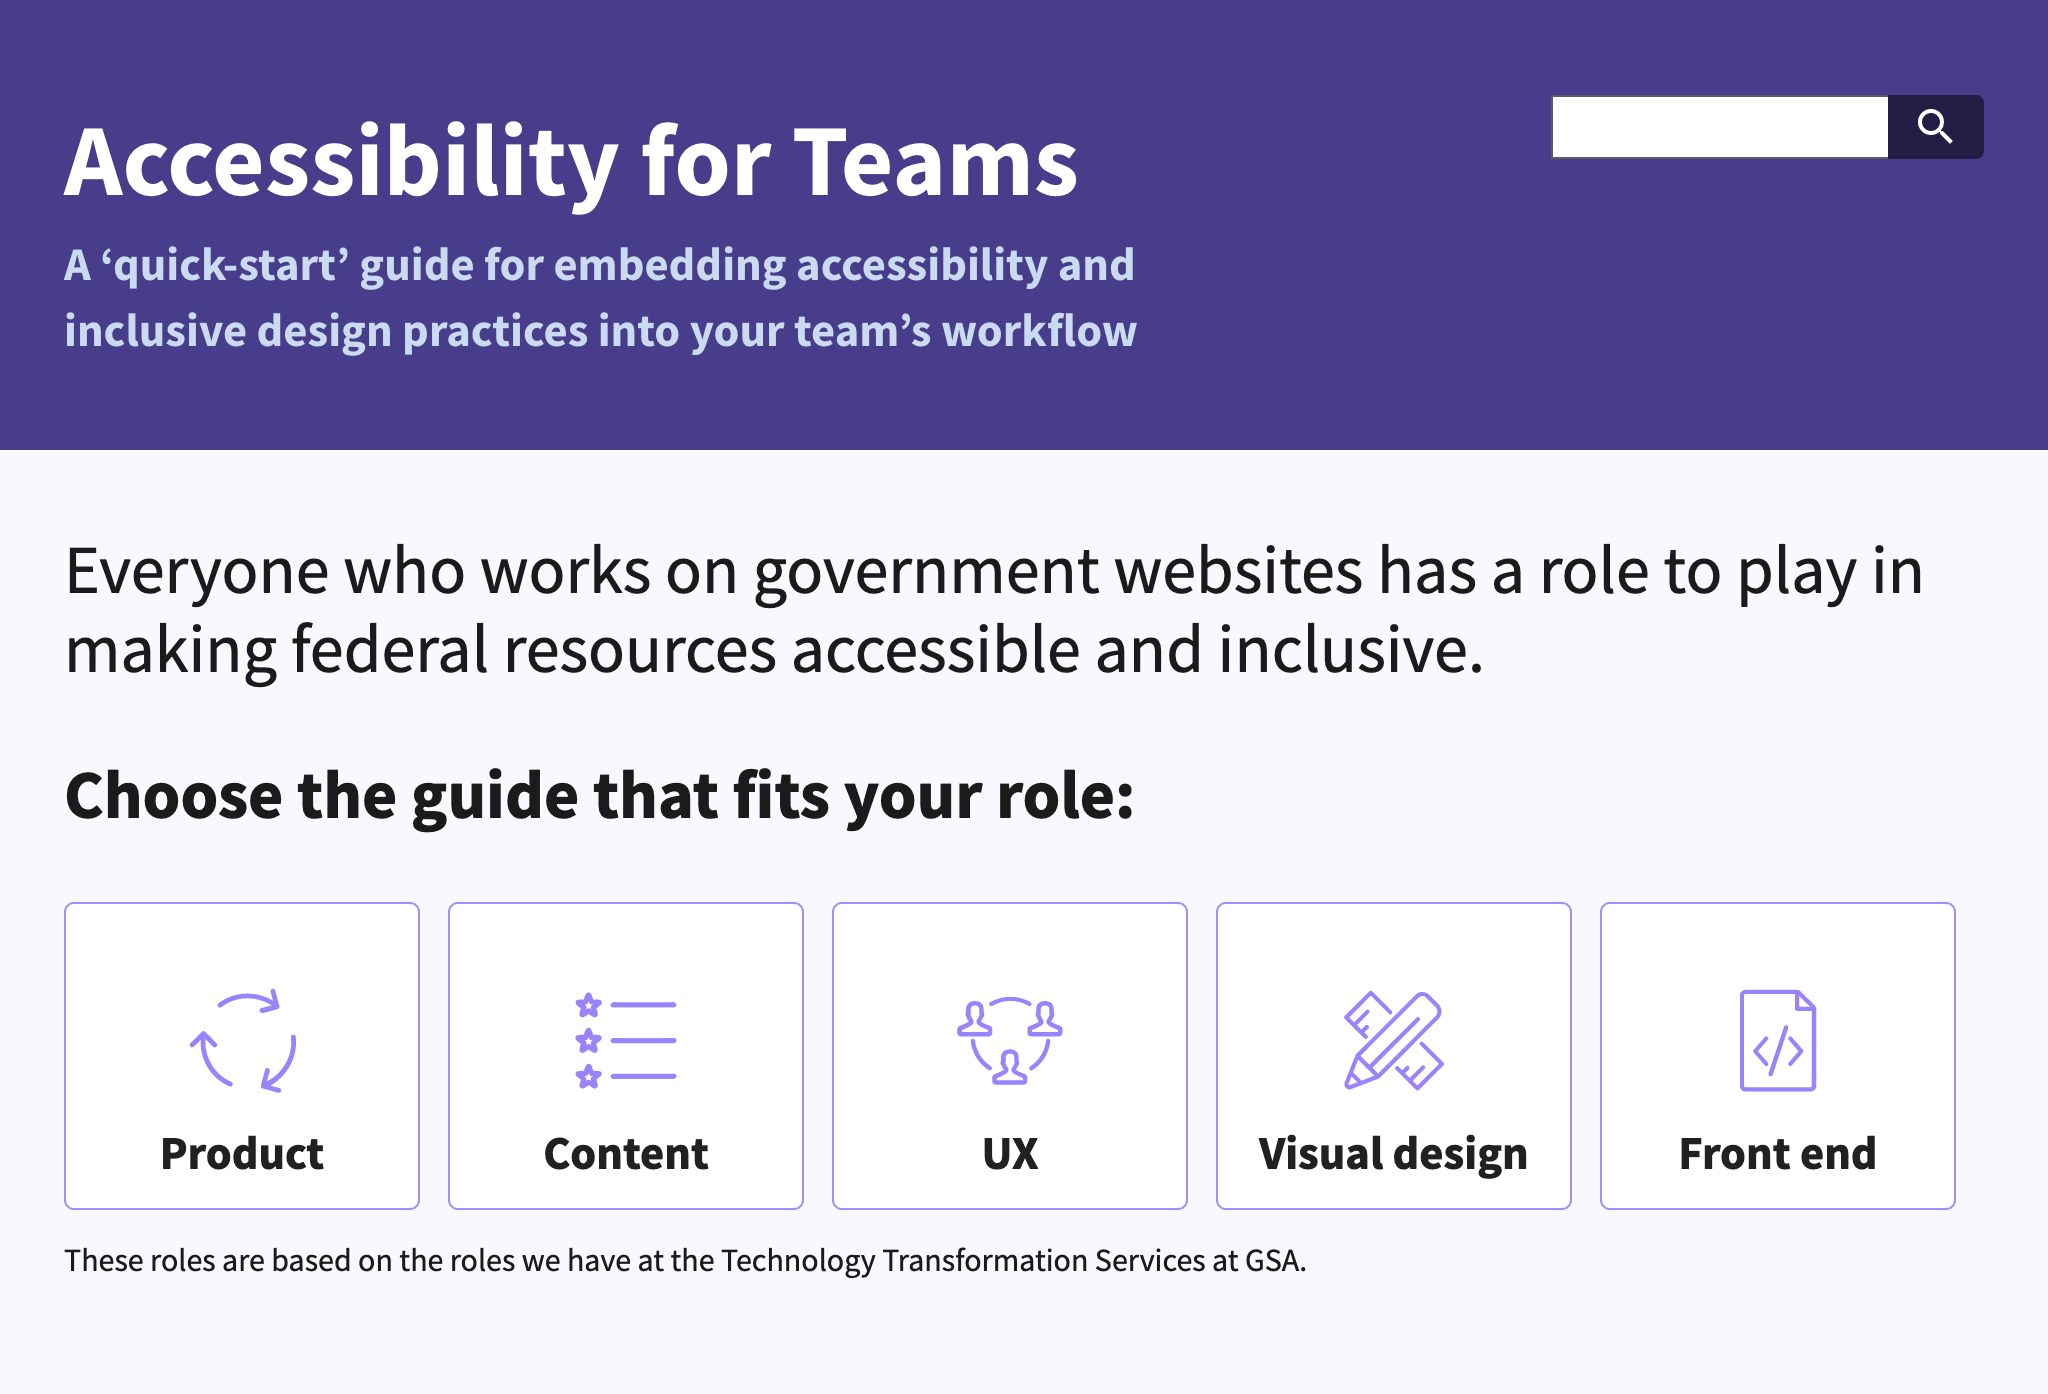
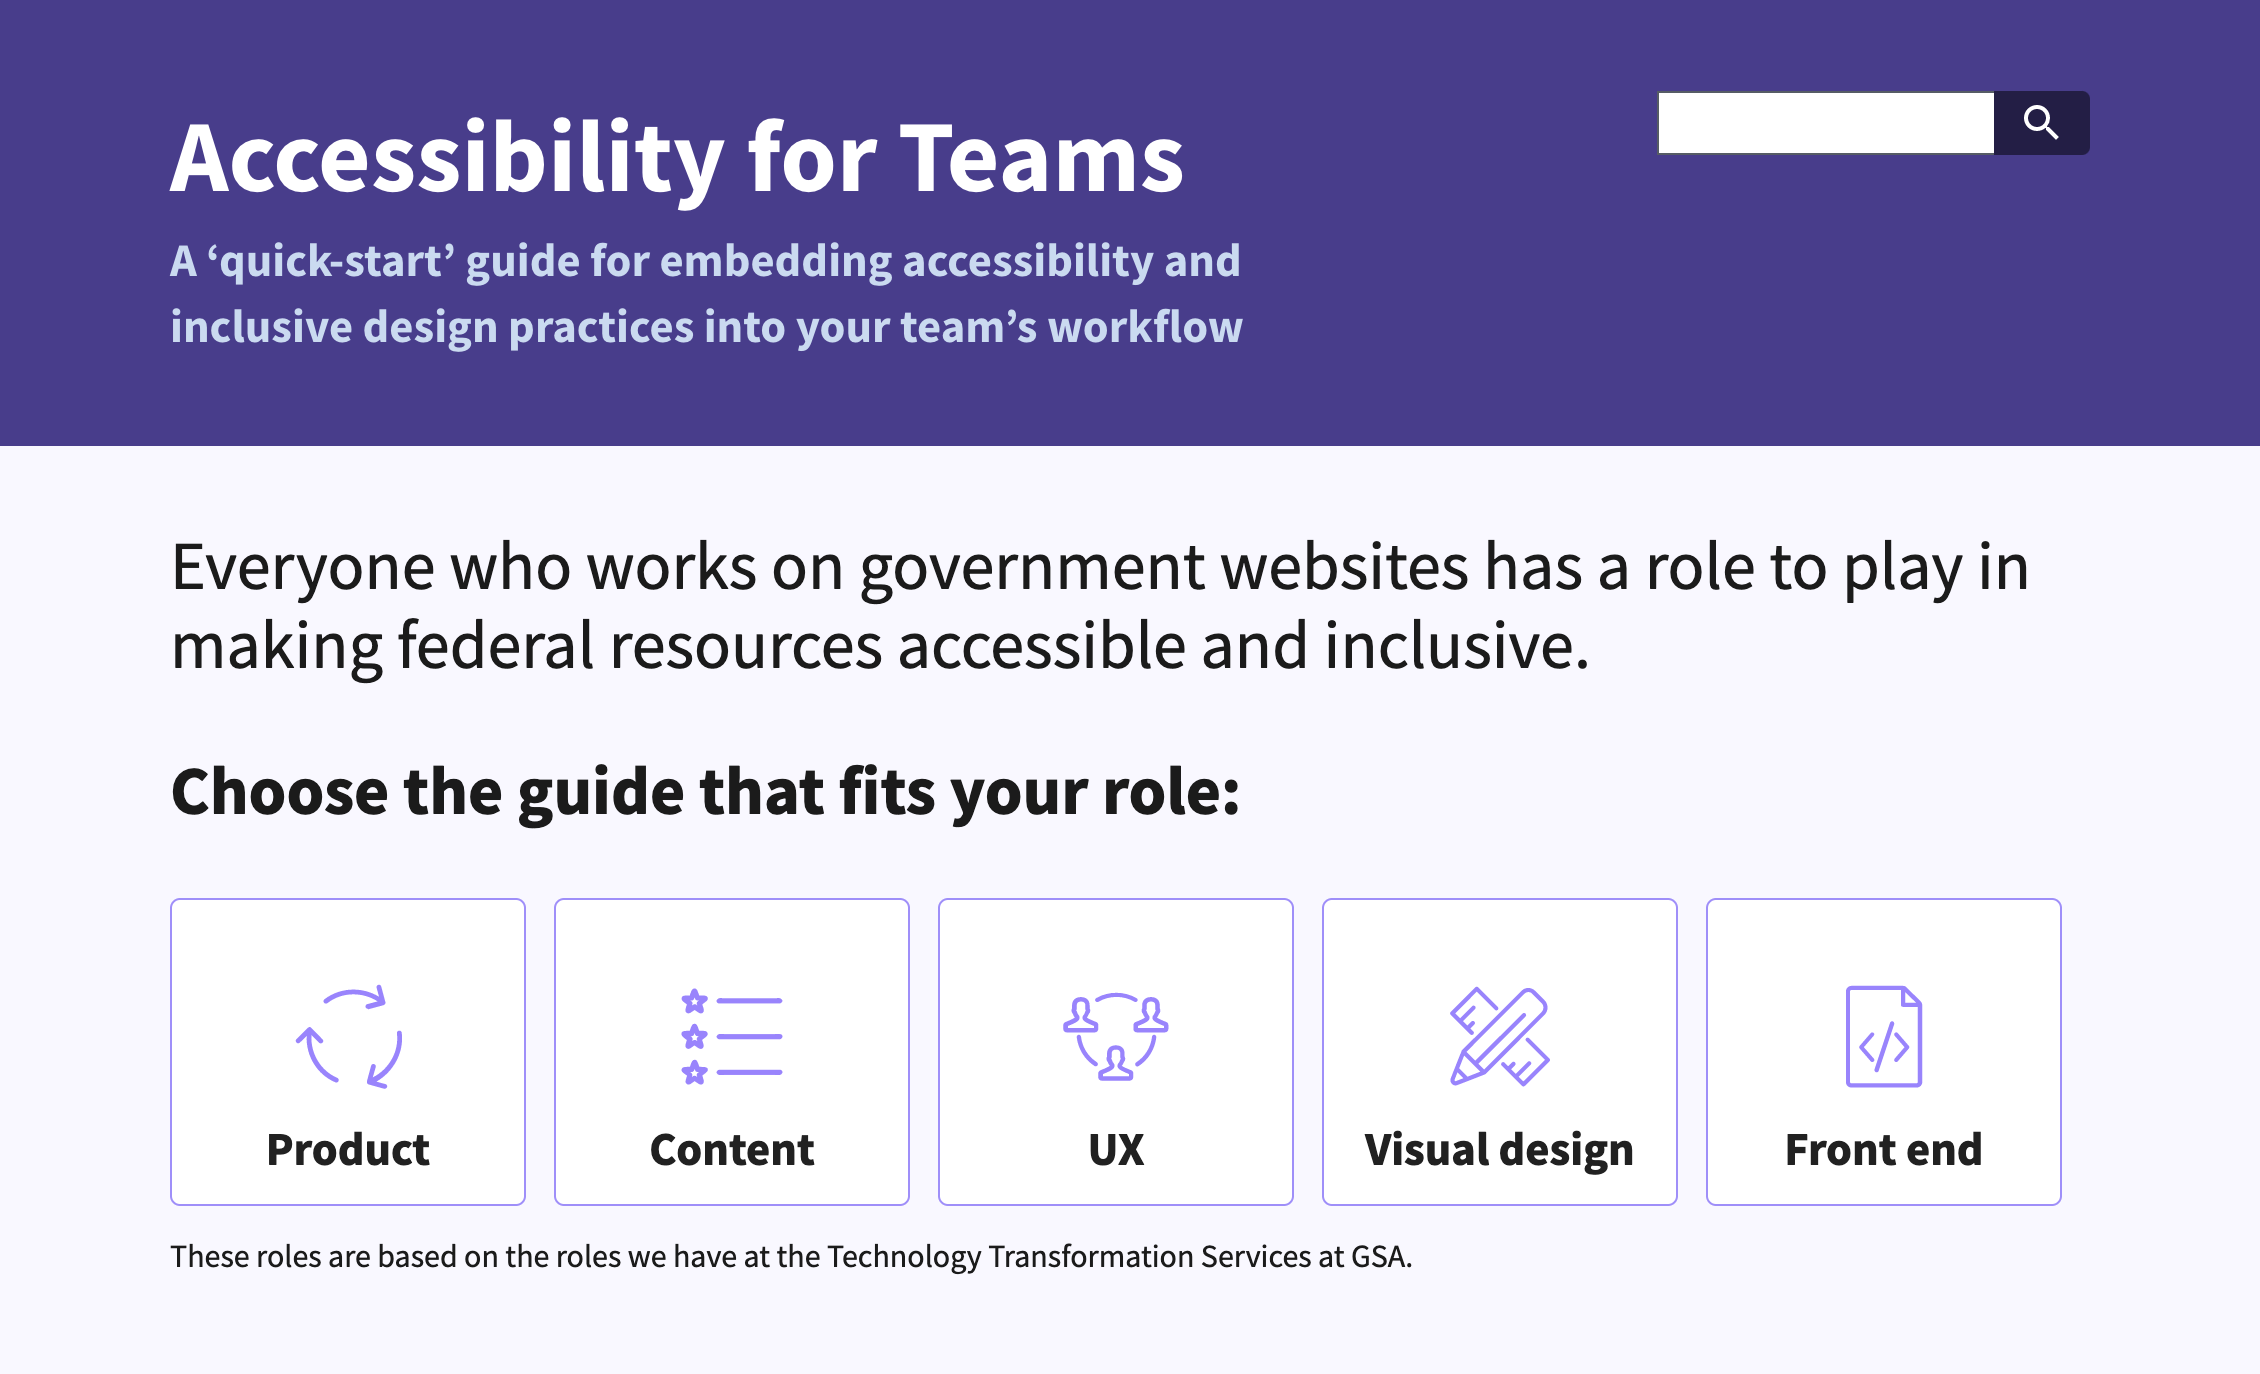
update images

diff --git a/_site/feature/2017/08/14/accessibility.html b/_site/feature/2017/08/14/accessibility.html
@@ -79,6 +79,8 @@
       
         <img class="work-img" src="/img/work/accessibility/accessibility.png" alt="" />
       
+        <img class="work-img" src="/img/work/accessibility/accessibility-visual.png" alt="" />
+      
 
     </div>
 

diff --git a/_posts/2017-08-14-accessibility.md b/_posts/2017-08-14-accessibility.md
@@ -4,7 +4,7 @@ title: Accessibility for Teams
 excerpt: I led the research and development of a role-based accessibility guide now used as part of 18F’s onboarding and referenced by industry leaders. Partnered with government accessibility leaders to ensure project buy-in.
 tagline: Launching a role-based accessibility guide to get people into the practice of accessibility.
 thumbnail: /img/work/accessibility/accessibility.png
-image: [/img/work/accessibility/accessibility.png]
+image: [/img/work/accessibility/accessibility.png, /img/work/accessibility/accessibility-visual.png]
 link: accessibility.digital.gov
 tags: [product lead]
 categories: feature
